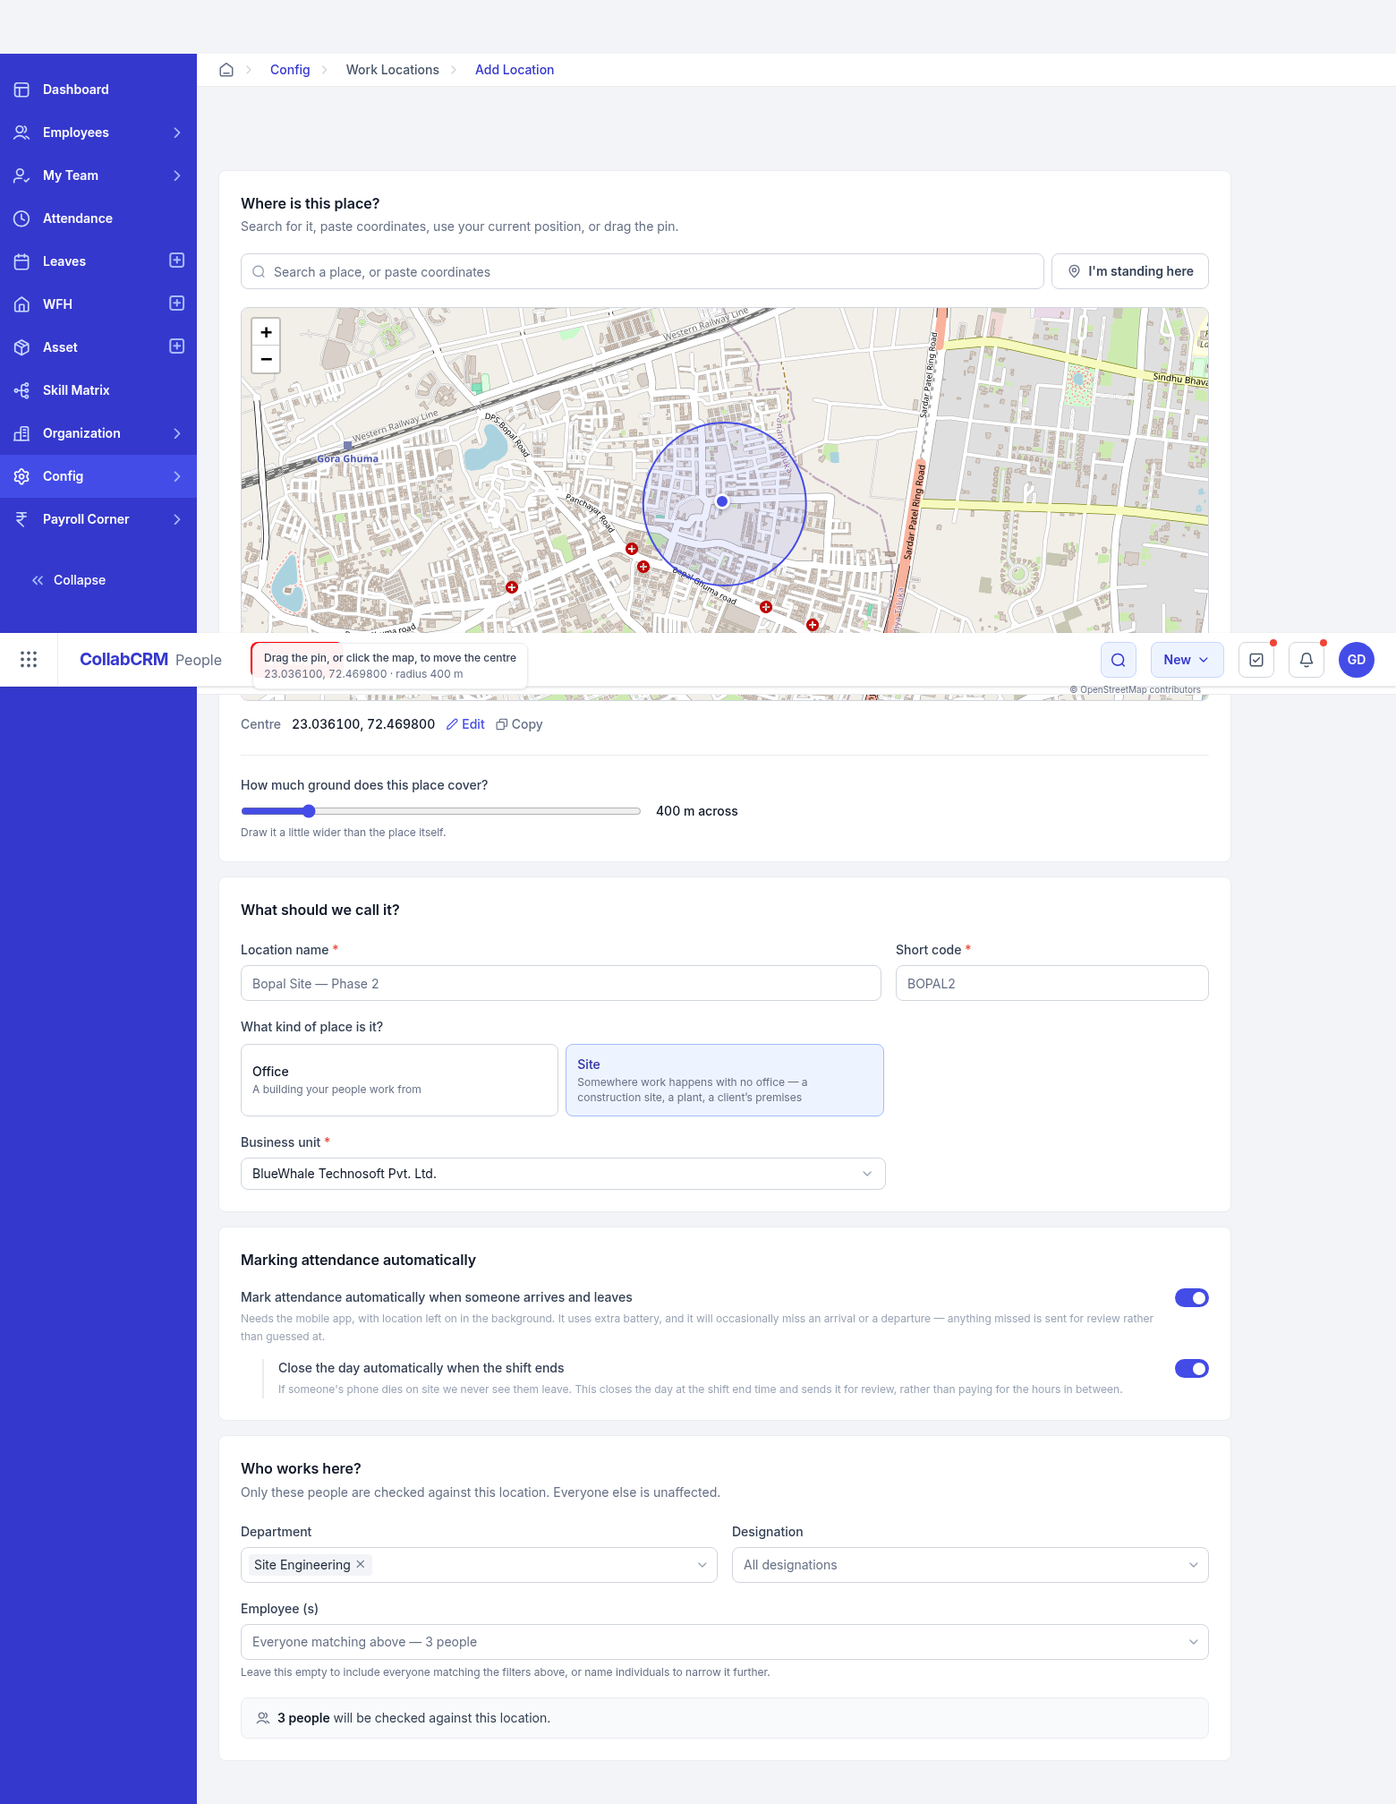
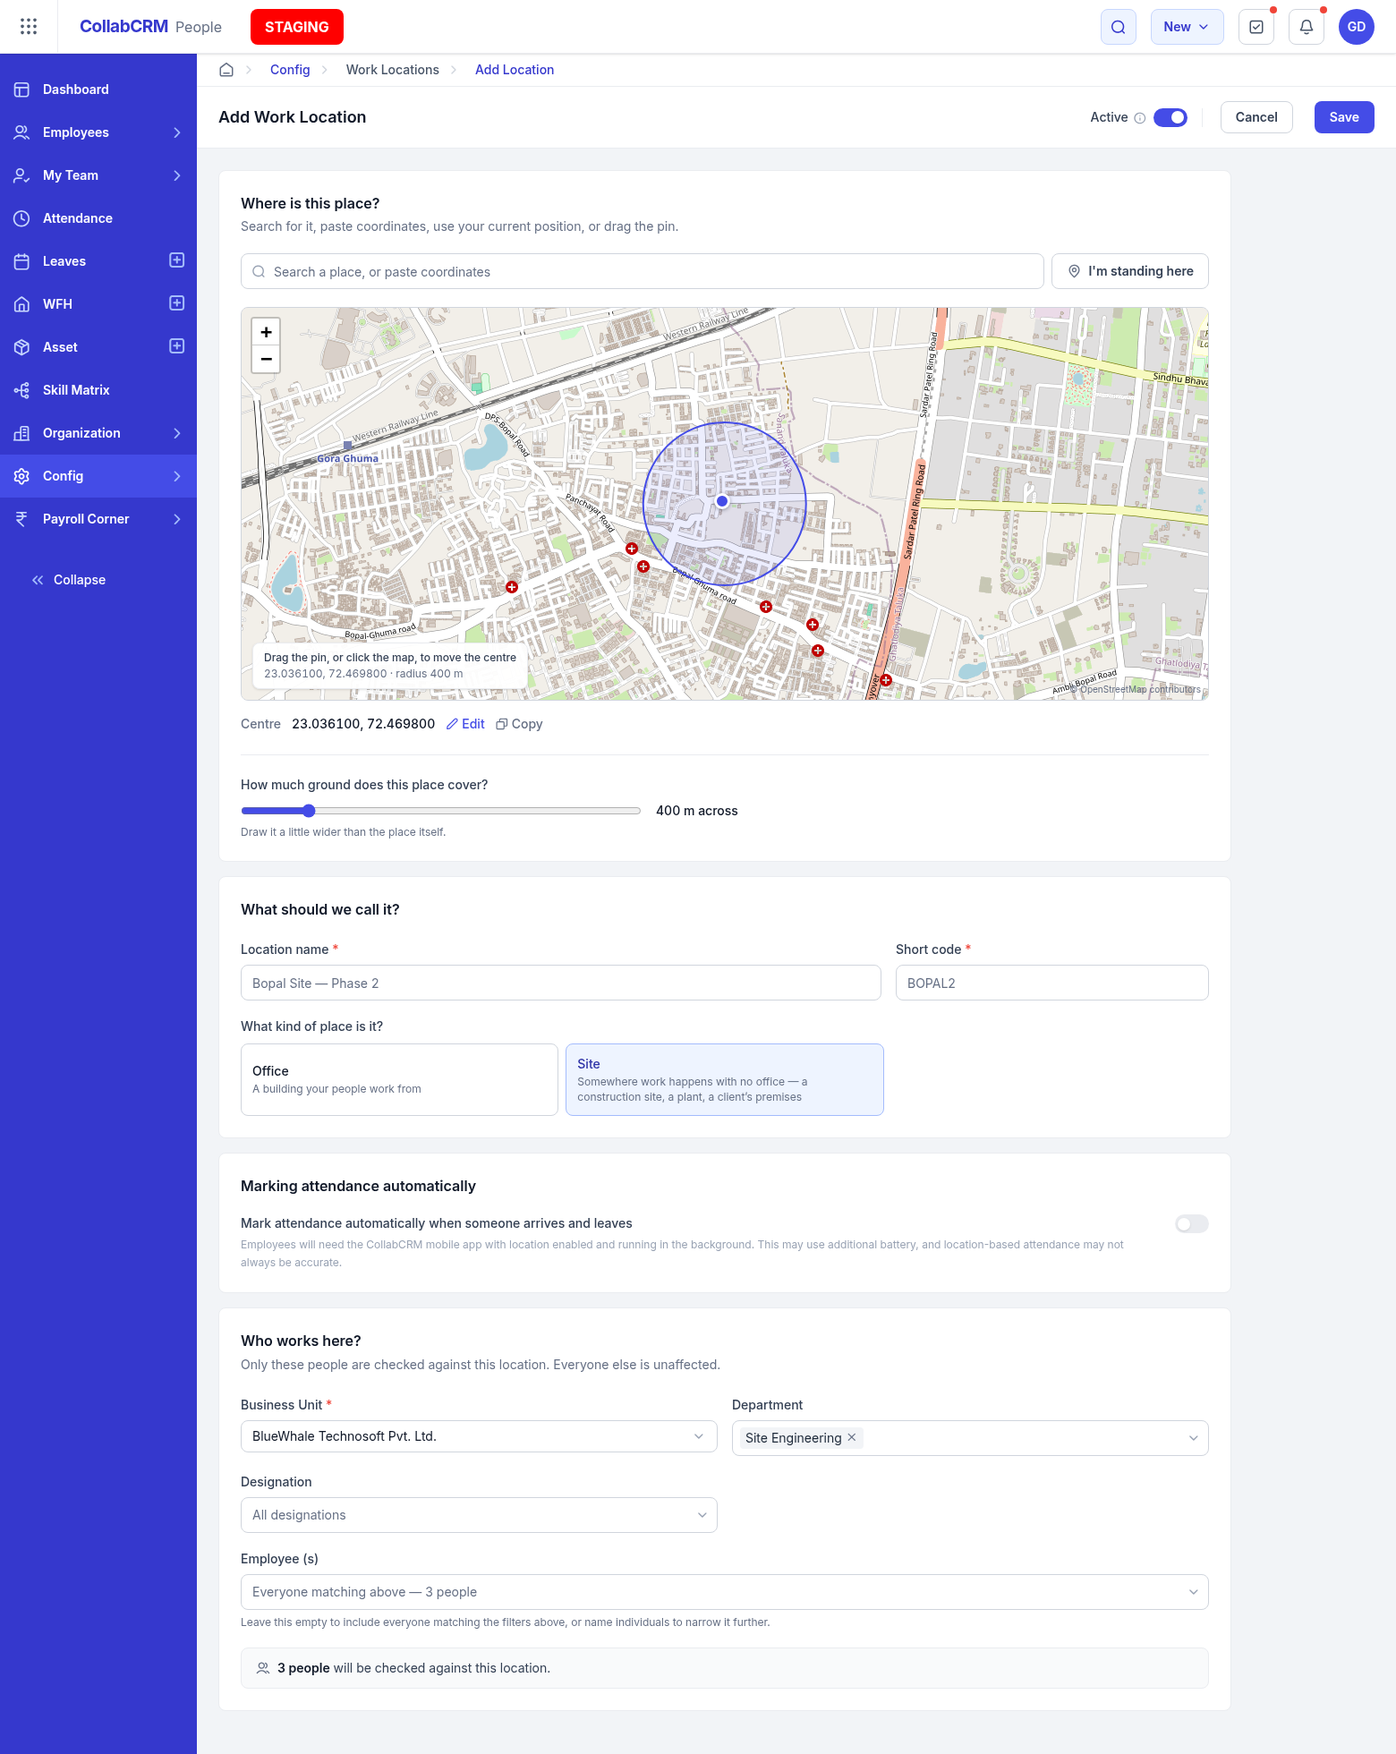
refactor: replace RaiseRequestModal with PeoplePanel and relocate business unit selection to AssignPeople component

diff --git a/src/components/PeoplePanel.jsx b/src/components/PeoplePanel.jsx
@@ -1,0 +1,141 @@
+import { useEffect, useState } from 'react'
+import { Icon, Select } from './ui'
+import { EMPLOYEES, DEPARTMENTS, DESIGNATIONS } from '../data/seed'
+
+/* Right side panel listing the people assigned to a location.
+   COPIED from CollabCRM's "View Shift" panel (crawled 11-Sep, evidence/dom/shift_rsp.html):
+   a headless-ui dialog panel pinned right at w-[750px], a sticky header reading
+   "View Shift - <name>" with the name in indigo, a table of No. / Employee Name /
+   Effective Date, and Records Per Page with pagination.
+   Backed there by /v1/config/shifts/:id/employees/list. */
+
+const AVATAR_TONES = ['bg-indigo-600','bg-success-600','bg-warning-600','bg-error-600','bg-blue-600']
+const initials = n => n.split(' ').map(w => w[0]).join('').slice(0, 2).toUpperCase()
+
+export default function PeoplePanel({ zone, onClose }) {
+  const [page, setPage] = useState(1)
+  const [perPage, setPerPage] = useState('10')
+  useEffect(() => {
+    const esc = e => e.key === 'Escape' && onClose()
+    document.addEventListener('keydown', esc); document.body.style.overflow = 'hidden'
+    return () => { document.removeEventListener('keydown', esc); document.body.style.overflow = '' }
+  }, [onClose])
+
+  const a = zone.assignment || {}
+  const people = EMPLOYEES.filter(e =>
+    (a.employee_ids?.length ? a.employee_ids.includes(e.id)
+      : (!a.department_ids?.length || a.department_ids.includes(e.dept)) &&
+        (!a.designation_ids?.length || a.designation_ids.includes(e.desig))))
+  const size = Number(perPage)
+  const pages = Math.max(1, Math.ceil(people.length / size))
+  const shown = people.slice((page - 1) * size, page * size)
+  const dept = id => DEPARTMENTS.find(d => d.id === id)?.name || ''
+  const desig = id => DESIGNATIONS.find(d => d.id === id)?.name || ''
+
+  return (
+    <div className="relative z-[80]" role="dialog" aria-modal="true">
+      <div className="fixed inset-0 bg-gray-900 opacity-70" onClick={onClose} />
+      <div className="fixed inset-0 overflow-hidden">
+        <div className="absolute inset-0 overflow-hidden">
+          <div className="pointer-events-none fixed inset-y-0 right-0 flex max-w-full">
+            <div className="pointer-events-auto w-[750px]">
+              <div className="flex h-full flex-col overflow-y-auto bg-white shadow-xl">
+
+                <div className="p-4 border-b border-gray-200 sticky top-0 bg-white z-50">
+                  <h1 className="3xl:text-xl 2xl:text-lg 2xl-to-xl:text-base text-base font-semibold">
+                    <p>Work Location - <span className="text-indigo-600">{zone.name}</span></p>
+                  </h1>
+                  <span onClick={onClose}
+                        className="icon-x-close text-xl text-gray-500 absolute 2xl:top-[22px] top-[18px] right-[22px] cursor-pointer" />
+                </div>
+
+                <div className="2xl:mx-4 2xl-to-xl:mx-3 mx-3 mt-3 border rounded-lg overflow-hidden">
+                  <div className="sidebar-container overflow-auto border-gray-200 relative
+                                  2xl:max-h-[calc(100vh-160px)] max-h-[calc(100vh-152px)]">
+                    <table className="min-w-full divide-y divide-gray-200">
+                      <thead><tr>
+                        {['No.', 'Employee Name', 'Department'].map(h => (
+                          <th key={h} scope="col"
+                              className="2xl:py-2.5 2xl-to-xl:py-1.5 py-1.5 2xl:px-6 2xl-to-xl:px-4 px-4 whitespace-nowrap
+                                         2xl:text-sm 2xl-to-xl:text-xs text-xs font-medium text-gray-600 text-left bg-gray-50">
+                            {h}
+                          </th>
+                        ))}
+                      </tr></thead>
+                      <tbody className="divide-y divide-[#EAEAEA] bg-white">
+                        {shown.map((e, i) => (
+                          <tr key={e.id} className="h-[65px] group hover:bg-gray-50">
+                            <td className="whitespace-nowrap 2xl:px-6 2xl-to-xl:px-4 px-4 2xl:py-2.5 py-1.5
+                                           2xl:text-sm 2xl-to-xl:text-xs text-xs text-gray-600 text-left w-[1%]">
+                              <p className="text-gray-900 max-w-[160px] truncate font-medium">{(page - 1) * size + i + 1}</p>
+                            </td>
+                            <td className="whitespace-nowrap 2xl:px-6 2xl-to-xl:px-4 px-4 2xl:py-2.5 py-1.5
+                                           2xl:text-sm 2xl-to-xl:text-xs text-xs text-gray-600 text-left">
+                              <div className="flex items-center gap-x-2">
+                                <div className="rounded-full overflow-hidden 2xl:h-8 2xl-to-xl:h-7 h-7 2xl:w-8 2xl-to-xl:w-7 w-7">
+                                  <div className={`rounded-full flex items-center justify-center 2xl:h-8 h-7 2xl:w-8 w-7
+                                                   ${AVATAR_TONES[i % AVATAR_TONES.length]}`}>
+                                    <span className="text-xs font-medium leading-none uppercase 2xl:!text-xs !text-xxs text-white">
+                                      {initials(e.name)}
+                                    </span>
+                                  </div>
+                                </div>
+                                <div>
+                                  <p className="text-gray-900 font-medium truncate">{e.name} ({e.code})</p>
+                                  <p className="text-gray-500 text-xs truncate" title={desig(e.desig)}>{desig(e.desig)}</p>
+                                </div>
+                              </div>
+                            </td>
+                            <td className="whitespace-nowrap 2xl:px-6 2xl-to-xl:px-4 px-4 2xl:py-2.5 py-1.5
+                                           2xl:text-sm 2xl-to-xl:text-xs text-xs text-gray-600 text-left">
+                              {dept(e.dept)}
+                            </td>
+                          </tr>
+                        ))}
+                        {shown.length === 0 && (
+                          <tr><td colSpan={3} className="text-center text-gray-500 2xl:text-sm text-xs py-12">
+                            Nobody is assigned to this location yet.
+                          </td></tr>
+                        )}
+                      </tbody>
+                    </table>
+                  </div>
+                </div>
+
+                <div className="2xl:mx-4 mx-3 my-3 flex items-center justify-between gap-3">
+                  <div className="flex items-center gap-2">
+                    <span className="2xl:text-sm 2xl-to-xl:text-xs text-xs text-gray-600">Records Per Page</span>
+                    <div className="w-20">
+                      <Select value={perPage} onChange={v => { setPerPage(v); setPage(1) }}
+                              options={['10','25','50'].map(n => ({ value: n, label: n }))} />
+                    </div>
+                  </div>
+                  <div className="flex items-center gap-1">
+                    <button type="button" onClick={() => setPage(p => Math.max(1, p - 1))} disabled={page === 1}
+                      className="2xl:h-9 h-8 px-3 rounded-lg border border-gray-300 2xl:text-sm text-xs
+                                 text-gray-700 disabled:opacity-40 inline-flex items-center gap-1">
+                      <Icon name="arrow-narrow-left" className="text-base" />Previous
+                    </button>
+                    {Array.from({ length: pages }, (_, n) => (
+                      <button key={n} type="button" onClick={() => setPage(n + 1)}
+                        className={`2xl:h-9 h-8 w-9 rounded-lg 2xl:text-sm text-xs font-medium
+                          ${page === n + 1 ? 'bg-indigo-600 text-white' : 'border border-gray-300 text-gray-700'}`}>
+                        {n + 1}
+                      </button>
+                    ))}
+                    <button type="button" onClick={() => setPage(p => Math.min(pages, p + 1))} disabled={page === pages}
+                      className="2xl:h-9 h-8 px-3 rounded-lg border border-gray-300 2xl:text-sm text-xs
+                                 text-gray-700 disabled:opacity-40 inline-flex items-center gap-1">
+                      Next<Icon name="arrow-narrow-right" className="text-base" />
+                    </button>
+                  </div>
+                </div>
+
+              </div>
+            </div>
+          </div>
+        </div>
+      </div>
+    </div>
+  )
+}

diff --git a/src/components/AssignPeople.jsx b/src/components/AssignPeople.jsx
@@ -1,6 +1,6 @@
 import { useMemo } from 'react'
-import { Icon, MultiSelect, FIELD_LABEL } from './ui'
-import { DEPARTMENTS, DESIGNATIONS, EMPLOYEES } from '../data/seed'
+import { Icon, Select, MultiSelect, FIELD_LABEL } from './ui'
+import { DEPARTMENTS, DESIGNATIONS, EMPLOYEES, BUSINESS_UNITS } from '../data/seed'
 
 /* Field pattern COPIED from CollabCRM's "Assign Shift to Employees"
    (crawled 10-Sep, evidence/dom/shift_assign_modal.html): cascading
@@ -11,7 +11,7 @@ import { DEPARTMENTS, DESIGNATIONS, EMPLOYEES } from '../data/seed'
    and the effective dates are dropped because a location is not date-bounded the way a
    shift assignment is — it applies until someone changes it. */
 
-export default function AssignPeople({ value, onChange }) {
+export default function AssignPeople({ value, onChange, businessUnitId, onBusinessUnit }) {
   const { department_ids = [], designation_ids = [], employee_ids = [] } = value
   const set = patch => onChange({ ...value, ...patch })
 
@@ -27,6 +27,13 @@ export default function AssignPeople({ value, onChange }) {
     <>
       <div className="grid grid-cols-1 sm:grid-cols-2 gap-4">
         <div>
+          <label className={FIELD_LABEL}>Business Unit <span className="text-error-500">*</span></label>
+          <div className="mt-1.5">
+            <Select value={businessUnitId} onChange={onBusinessUnit}
+                    options={BUSINESS_UNITS.map(b => ({ value: b.id, label: b.name }))} />
+          </div>
+        </div>
+        <div>
           <label className={FIELD_LABEL}>Department</label>
           <div className="mt-1.5">
             <MultiSelect values={department_ids} onChange={v => set({ department_ids: v, employee_ids: [] })}
@@ -40,18 +47,17 @@ export default function AssignPeople({ value, onChange }) {
               options={DESIGNATIONS.map(d => ({ value: d.id, label: d.name }))} placeholder="All designations" />
           </div>
         </div>
-      </div>
-
-      <div className="2xl:mt-4 mt-3">
-        <label className={FIELD_LABEL}>Employee (s)</label>
-        <div className="mt-1.5">
+        <div>
+          <label className={FIELD_LABEL}>Employee (s)</label>
+          <div className="mt-1.5">
           <MultiSelect values={employee_ids} onChange={v => set({ employee_ids: v })}
             options={pool.map(e => ({ value: e.id, label: `${e.name} (${e.code})` }))}
             placeholder={`Everyone matching above — ${pool.length} ${pool.length === 1 ? 'person' : 'people'}`} />
-        </div>
-        <p className="mt-1.5 2xl:text-xs text-xxs text-gray-500">
+          </div>
+          <p className="mt-1.5 2xl:text-xs text-xxs text-gray-500">
           Leave this empty to include everyone matching the filters above, or name individuals to narrow it further.
-        </p>
+          </p>
+        </div>
       </div>
 
       <div className="2xl:mt-5 mt-4 rounded-lg border border-gray-200 bg-gray-50 2xl:px-4 px-3 2xl:py-3 py-2.5

diff --git a/src/screens/ZoneList.jsx b/src/screens/ZoneList.jsx
@@ -1,8 +1,9 @@
 import { useState } from 'react'
+import PeoplePanel from '../components/PeoplePanel'
 import { Link } from 'react-router-dom'
 import { Breadcrumb } from '../components/AppShell'
-import { CX, Icon, Pill, Select } from '../components/ui'
-import { BUSINESS_UNITS, useZones } from '../data/seed'
+import { CX, Icon, Pill } from '../components/ui'
+import { useZones } from '../data/seed'
 
 /* S1 — Work Locations (list).
    Skeleton COPIED from the crawled Shift Settings list
@@ -12,10 +13,10 @@ import { BUSINESS_UNITS, useZones } from '../data/seed'
 const TYPE_LABEL = { office: 'Office', project_site: 'Project Site', client_site: 'Client Site' }
 
 export default function ZoneList() {
-  const [bu, setBu] = useState(BUSINESS_UNITS[0].id)
   const { zones: ZONES, archiveZone } = useZones()
+  const [panel, setPanel] = useState(null)
   const [q, setQ] = useState('')
-  const rows = ZONES.filter(z => !z.archived && z.business_unit_id === bu &&
+  const rows = ZONES.filter(z => !z.archived &&
     (z.name + z.code).toLowerCase().includes(q.toLowerCase()))
 
   return (
@@ -25,8 +26,6 @@ export default function ZoneList() {
         <div className={CX.panelHead}>
           <h1 className={CX.headTitle}>Work Locations</h1>
           <div className="flex items-center gap-x-3">
-            <Select value={bu} onChange={setBu} width="w-64"
-              options={BUSINESS_UNITS.map(b => ({ value: b.id, label: b.name }))} />
             <Link to="/work-locations/add" className={CX.btnPrimary}>
               <span className="flex items-center gap-2"><Icon name="plus" /> Add Location</span>
             </Link>
@@ -70,7 +69,8 @@ export default function ZoneList() {
                   <td className={`${CX.td} tabular-nums`}>{z.radius_m} m</td>
                   <td className={`${CX.td} tabular-nums`}>
                     {z.assigned > 0
-                      ? z.assigned
+                      ? <button type="button" onClick={() => setPanel(z)}
+                          className="text-indigo-600 hover:text-indigo-800 font-medium">{z.assigned}</button>
                       : <span className="text-warning-700 font-medium">nobody yet</span>}
                   </td>
                   <td className={CX.td}>
@@ -90,6 +90,7 @@ export default function ZoneList() {
           </table>
         </div>
       </div>
+      {panel && <PeoplePanel zone={panel} onClose={() => setPanel(null)} />}
     </>
   )
 }

diff --git a/src/components/AttendanceTable.jsx b/src/components/AttendanceTable.jsx
@@ -1,8 +1,7 @@
 import { useRef, useState } from 'react'
 import LocationsModal from './LocationsModal'
-import RaiseRequestModal from './RaiseRequestModal'
 import AttendanceCard from './AttendanceCard'
-import { CX, Pill } from './ui'
+import { CX } from './ui'
 import { VERDICT, useZones } from '../data/seed'
 
 /* The attendance table. ONE component, used by Self, Team and Organization —
@@ -25,8 +24,6 @@ export default function AttendanceTable({ days, readOnly = false }) {
   const openCard = d => { clearTimeout(closeTimer.current); setHover(d) }
   const closeCard = () => { closeTimer.current = setTimeout(() => setHover(null), 220) }
   const [modal, setModal] = useState(null)
-  const [raise, setRaise] = useState(null)
-  const [raised, setRaised] = useState([])
 
   return (
     <>
@@ -83,15 +80,7 @@ export default function AttendanceTable({ days, readOnly = false }) {
                     <td className={CX.td}>{d.effective || '—'}</td>
                     <td className={CX.td}>{d.break || '—'}</td>
                     <td className={CX.td}>{d.gross || '—'}</td>
-                    <td className={CX.td}>
-                      {raised.includes(d.date)
-                        ? <Pill tone="warning">Awaiting approval</Pill>
-                        : (inEv?.verification === 'unverified' || (ev.length % 2 === 1 && ev.length > 0))
-                            && inEv?.verification !== 'not_applicable' && !d.wfh && !d.open
-                          ? <button onClick={() => setRaise(d)}
-                              className="text-indigo-600 hover:text-indigo-800 font-medium">Raise request</button>
-                          : <span className="text-gray-400">—</span>}
-                    </td>
+                    <td className={CX.td}><span className="text-gray-400">—</span></td>
                   </tr>
                 )
               })}
@@ -100,8 +89,6 @@ export default function AttendanceTable({ days, readOnly = false }) {
         </div>
 
       {modal && <LocationsModal day={modal} zones={zones} onClose={() => setModal(null)} />}
-      {raise && <RaiseRequestModal day={raise} onClose={() => setRaise(null)}
-        onSubmit={() => { setRaised(r => [...r, raise.date]); setRaise(null) }} />}
     </>
   )
 }

diff --git a/src/screens/ZoneForm.jsx b/src/screens/ZoneForm.jsx
@@ -234,13 +234,6 @@ export default function ZoneForm() {
               </div>
             </div>
 
-            <div className="2xl:mt-4 mt-3 sm:w-2/3">
-              <label className={FIELD_LABEL}>Business unit <span className="text-error-500">*</span></label>
-              <div className="mt-1.5">
-                <Select value={z.business_unit_id} onChange={v => set('business_unit_id', v)}
-                        options={BUSINESS_UNITS.map(b => ({ value: b.id, label: b.name }))} />
-              </div>
-            </div>
           </Card>
 
 
@@ -250,13 +243,14 @@ export default function ZoneForm() {
               <Toggle id="auto_clock_in_out" checked={z.auto_clock_in_out}
                 onChange={v => set('auto_clock_in_out', v)}
                 label="Mark attendance automatically when someone arrives and leaves"
-                hint="Needs the mobile app, with location left on in the background. It uses extra battery, and it will occasionally miss an arrival or a departure — anything missed is sent for review rather than guessed at." />
+                hint="Employees will need the CollabCRM mobile app with location enabled and running in the background. This may use additional battery, and location-based attendance may not always be accurate." />
             </div>
           </Card>
 
           <Card title="Who works here?"
                 sub="Only these people are checked against this location. Everyone else is unaffected.">
-            <AssignPeople value={z.assignment} onChange={v => set('assignment', v)} />
+            <AssignPeople value={z.assignment} onChange={v => set('assignment', v)}
+              businessUnitId={z.business_unit_id} onBusinessUnit={v => set('business_unit_id', v)} />
           </Card>
 
           <div className="h-6" />

diff --git a/src/index.css b/src/index.css
@@ -2,6 +2,13 @@
 
 /* CollabCRM uses a bracketed breakpoint between xl and 2xl. Every utility in the app
    is written as the responsive triple `2xl:<a> 2xl-to-xl:<b> <base>` - all three, always. */
+/* CollabCRM is on Tailwind v3, where a bare `border` defaults to gray-200.
+   Tailwind v4 changed that default to currentColor, so every class string copied
+   verbatim from the crawled DOM rendered a dark border. Restore the v3 behaviour. */
+@layer base {
+  *, ::before, ::after, ::backdrop { border-color: var(--color-gray-200); }
+}
+
 @custom-variant 2xl-to-xl (@media (min-width: 1280px) and (max-width: 1535px));
 @custom-variant 3xl (@media (min-width: 1800px));
 
